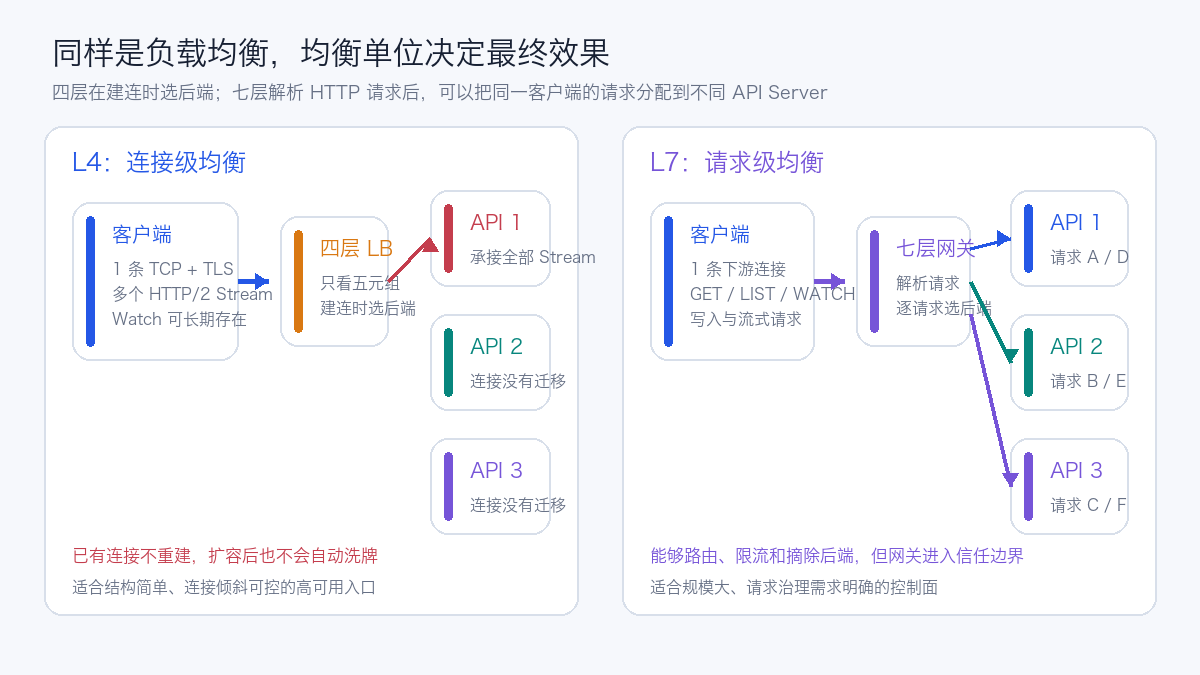
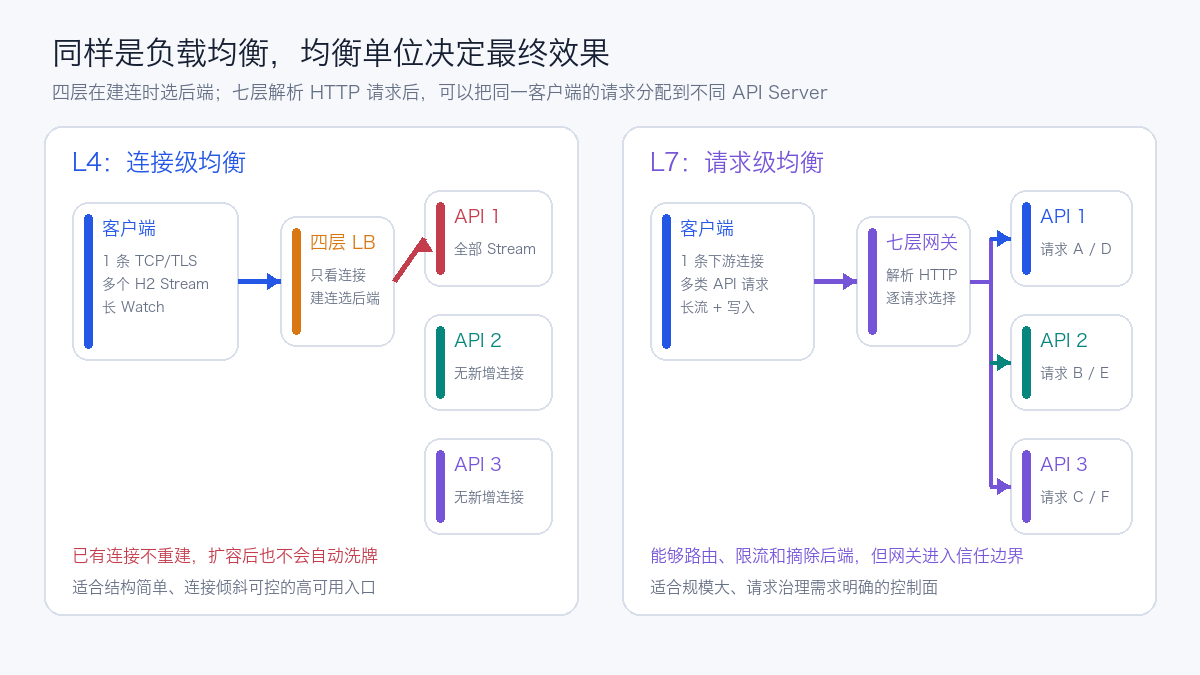
docs: fix apiserver load balancing diagrams

Changed region(s): [[0.555, 0.28, 0.9558, 0.7778], [0.0617, 0.28, 0.4933, 0.5911], [0.3392, 0.6533, 0.4625, 0.7778]]

diff --git a/scripts/generate_kube_apiserver_lb_assets.py b/scripts/generate_kube_apiserver_lb_assets.py
@@ -64,6 +64,16 @@ def card(draw, bounds, title, lines, accent=BLUE):
         label(draw, (x1 + 40, y1 + 58 + i * 25), line, 16, MUTED)
 
 
+def compact_card(draw, bounds, title, lines, accent=BLUE):
+    """Card for narrow columns; keep all copy clear of connectors."""
+    x1, y1, x2, y2 = bounds
+    rounded(draw, bounds, radius=16)
+    draw.rounded_rectangle((x1 + 12, y1 + 12, x1 + 20, y2 - 12), 4, fill=accent)
+    label(draw, (x1 + 30, y1 + 18), title, 18, accent, True)
+    for i, line in enumerate(lines):
+        label(draw, (x1 + 30, y1 + 51 + i * 23), line, 14, MUTED)
+
+
 def pill(draw, center, value, color):
     x, y = center
     bbox = draw.textbbox((0, 0), value, font=font(15, True))
@@ -82,24 +92,29 @@ def connection_granularity():
     label(d, (72, 151), "L4：连接级均衡", 24, BLUE, True)
     label(d, (650, 151), "L7：请求级均衡", 24, PURPLE, True)
 
-    card(d, (72, 202, 238, 360), "客户端", ["1 条 TCP + TLS", "多个 HTTP/2 Stream", "Watch 可长期存在"], BLUE)
-    card(d, (280, 216, 388, 346), "四层 LB", ["只看五元组", "建连时选后端"], ORANGE)
-    arrow(d, (238, 281), (268, 281), BLUE, 5)
-    card(d, (430, 190, 550, 286), "API 1", ["承接全部 Stream"], RED)
-    card(d, (430, 314, 550, 410), "API 2", ["连接没有迁移"], TEAL)
-    card(d, (430, 438, 550, 534), "API 3", ["连接没有迁移"], PURPLE)
-    arrow(d, (388, 281), (430, 238), RED, 5)
+    compact_card(d, (72, 202, 238, 360), "客户端", ["1 条 TCP/TLS", "多个 H2 Stream", "长 Watch"], BLUE)
+    compact_card(d, (280, 216, 394, 346), "四层 LB", ["只看连接", "建连选后端"], ORANGE)
+    arrow(d, (238, 281), (280, 281), BLUE, 5)
+    compact_card(d, (424, 190, 552, 286), "API 1", ["全部 Stream"], RED)
+    compact_card(d, (424, 314, 552, 410), "API 2", ["无新增连接"], TEAL)
+    compact_card(d, (424, 438, 552, 534), "API 3", ["无新增连接"], PURPLE)
+    arrow(d, (394, 281), (424, 238), RED, 5)
     label(d, (72, 548), "已有连接不重建，扩容后也不会自动洗牌", 17, RED, True)
     label(d, (72, 578), "适合结构简单、连接倾斜可控的高可用入口", 16, MUTED)
 
-    card(d, (650, 202, 814, 360), "客户端", ["1 条下游连接", "GET / LIST / WATCH", "写入与流式请求"], BLUE)
-    card(d, (856, 216, 970, 346), "七层网关", ["解析请求", "逐请求选后端"], PURPLE)
-    arrow(d, (814, 281), (844, 281), PURPLE, 5)
-    card(d, (1010, 190, 1128, 286), "API 1", ["请求 A / D"], BLUE)
-    card(d, (1010, 314, 1128, 410), "API 2", ["请求 B / E"], TEAL)
-    card(d, (1010, 438, 1128, 534), "API 3", ["请求 C / F"], PURPLE)
-    for y1, y2, color in [(248, 238, BLUE), (281, 362, TEAL), (314, 486, PURPLE)]:
-        arrow(d, (970, y1), (1010, y2), color, 4)
+    compact_card(d, (650, 202, 814, 360), "客户端", ["1 条下游连接", "多类 API 请求", "长流 + 写入"], BLUE)
+    compact_card(d, (856, 216, 970, 346), "七层网关", ["解析 HTTP", "逐请求选择"], PURPLE)
+    arrow(d, (814, 281), (856, 281), PURPLE, 5)
+    compact_card(d, (1010, 190, 1132, 286), "API 1", ["请求 A / D"], BLUE)
+    compact_card(d, (1010, 314, 1132, 410), "API 2", ["请求 B / E"], TEAL)
+    compact_card(d, (1010, 438, 1132, 534), "API 3", ["请求 C / F"], PURPLE)
+    # Split only in the whitespace between gateway and backends. No connector
+    # is allowed to cross a card's title or body copy.
+    d.line((970, 281, 990, 281), fill=PURPLE, width=4)
+    d.line((990, 238, 990, 486), fill=PURPLE, width=4)
+    arrow(d, (990, 238), (1010, 238), BLUE, 4)
+    arrow(d, (990, 362), (1010, 362), TEAL, 4)
+    arrow(d, (990, 486), (1010, 486), PURPLE, 4)
     label(d, (650, 548), "能够路由、限流和摘除后端，但网关进入信任边界", 17, PURPLE, True)
     label(d, (650, 578), "适合规模大、请求治理需求明确的控制面", 16, MUTED)
     OUT.mkdir(parents=True, exist_ok=True)
@@ -115,16 +130,16 @@ def tls_boundaries():
     card(d, (52, 176, 270, 306), "kubectl / client-go", ["持有用户证书或 Token", "TLS 直接到 API Server"], BLUE)
     card(d, (390, 176, 610, 306), "L4 入口", ["不解密 HTTP", "不理解 verb / resource"], ORANGE)
     card(d, (730, 176, 1148, 306), "kube-apiserver", ["验证原始用户证书或 Token", "执行认证、授权、准入与审计"], TEAL)
-    arrow(d, (270, 241), (378, 241), BLUE, 5)
-    arrow(d, (610, 241), (718, 241), BLUE, 5)
+    arrow(d, (270, 241), (390, 241), BLUE, 5)
+    arrow(d, (610, 241), (730, 241), BLUE, 5)
     pill(d, (500, 334), "一条端到端 TLS 会话", BLUE)
 
     label(d, (52, 382), "方案 B  TLS Terminate + Re-encrypt", 23, PURPLE, True)
     card(d, (52, 425, 270, 565), "kubectl / client-go", ["先向网关证明身份", "下游 TLS 在网关结束"], BLUE)
     card(d, (390, 425, 610, 565), "L7 API Gateway", ["认证原始用户", "携带 Token 或 Impersonation", "使用专用身份访问上游"], PURPLE)
     card(d, (730, 425, 1148, 565), "kube-apiserver", ["验证网关 mTLS 身份", "校验 Impersonate 权限", "按原始用户授权并记录审计"], TEAL)
-    arrow(d, (270, 495), (378, 495), BLUE, 5)
-    arrow(d, (610, 495), (718, 495), PURPLE, 5)
+    arrow(d, (270, 495), (390, 495), BLUE, 5)
+    arrow(d, (610, 495), (730, 495), PURPLE, 5)
     pill(d, (331, 594), "下游 TLS", BLUE)
     pill(d, (670, 594), "上游 mTLS", PURPLE)
     label(d, (1148, 628), "不要把明文上游当成默认生产方案", 16, RED, True, "ra")
@@ -151,7 +166,7 @@ def rollout_evidence():
         for j, line in enumerate(detail.split("\n")):
             label(d, (x + 24, 226 + j * 29), line, 16, MUTED)
         if i < 3:
-            arrow(d, (x + 254, 228), (x + 274, 228), LINE, 4)
+            arrow(d, (x + 254, 228), (x + 286, 228), LINE, 4)
 
     rounded(d, (52, 354, 1148, 616), fill="#FFFFFF")
     label(d, (78, 380), "生产门禁", 22, INK, True)
